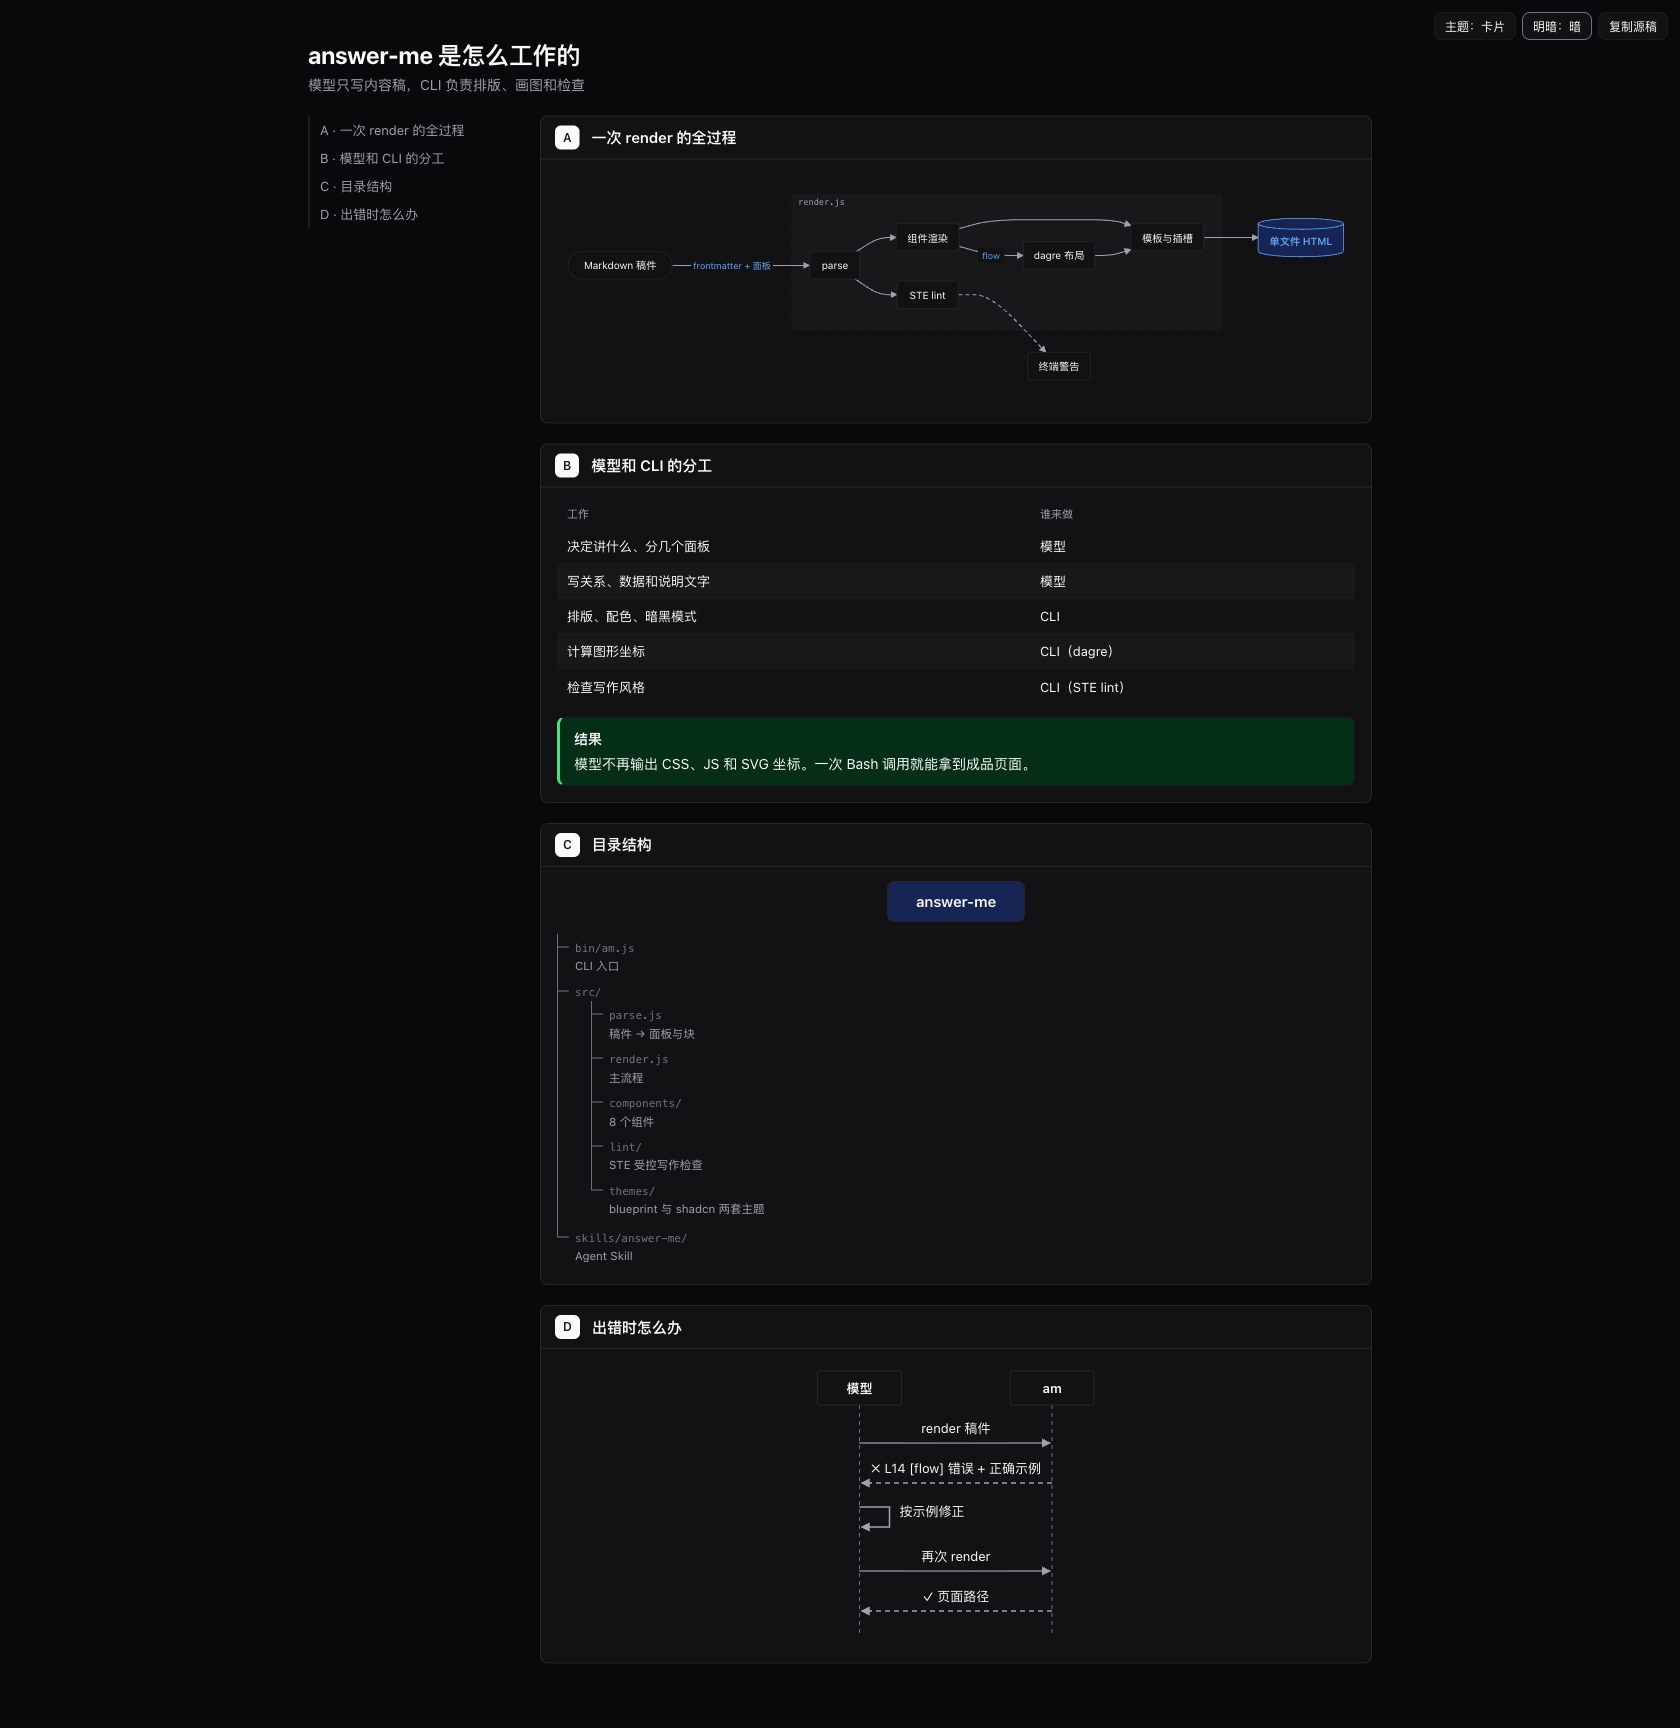
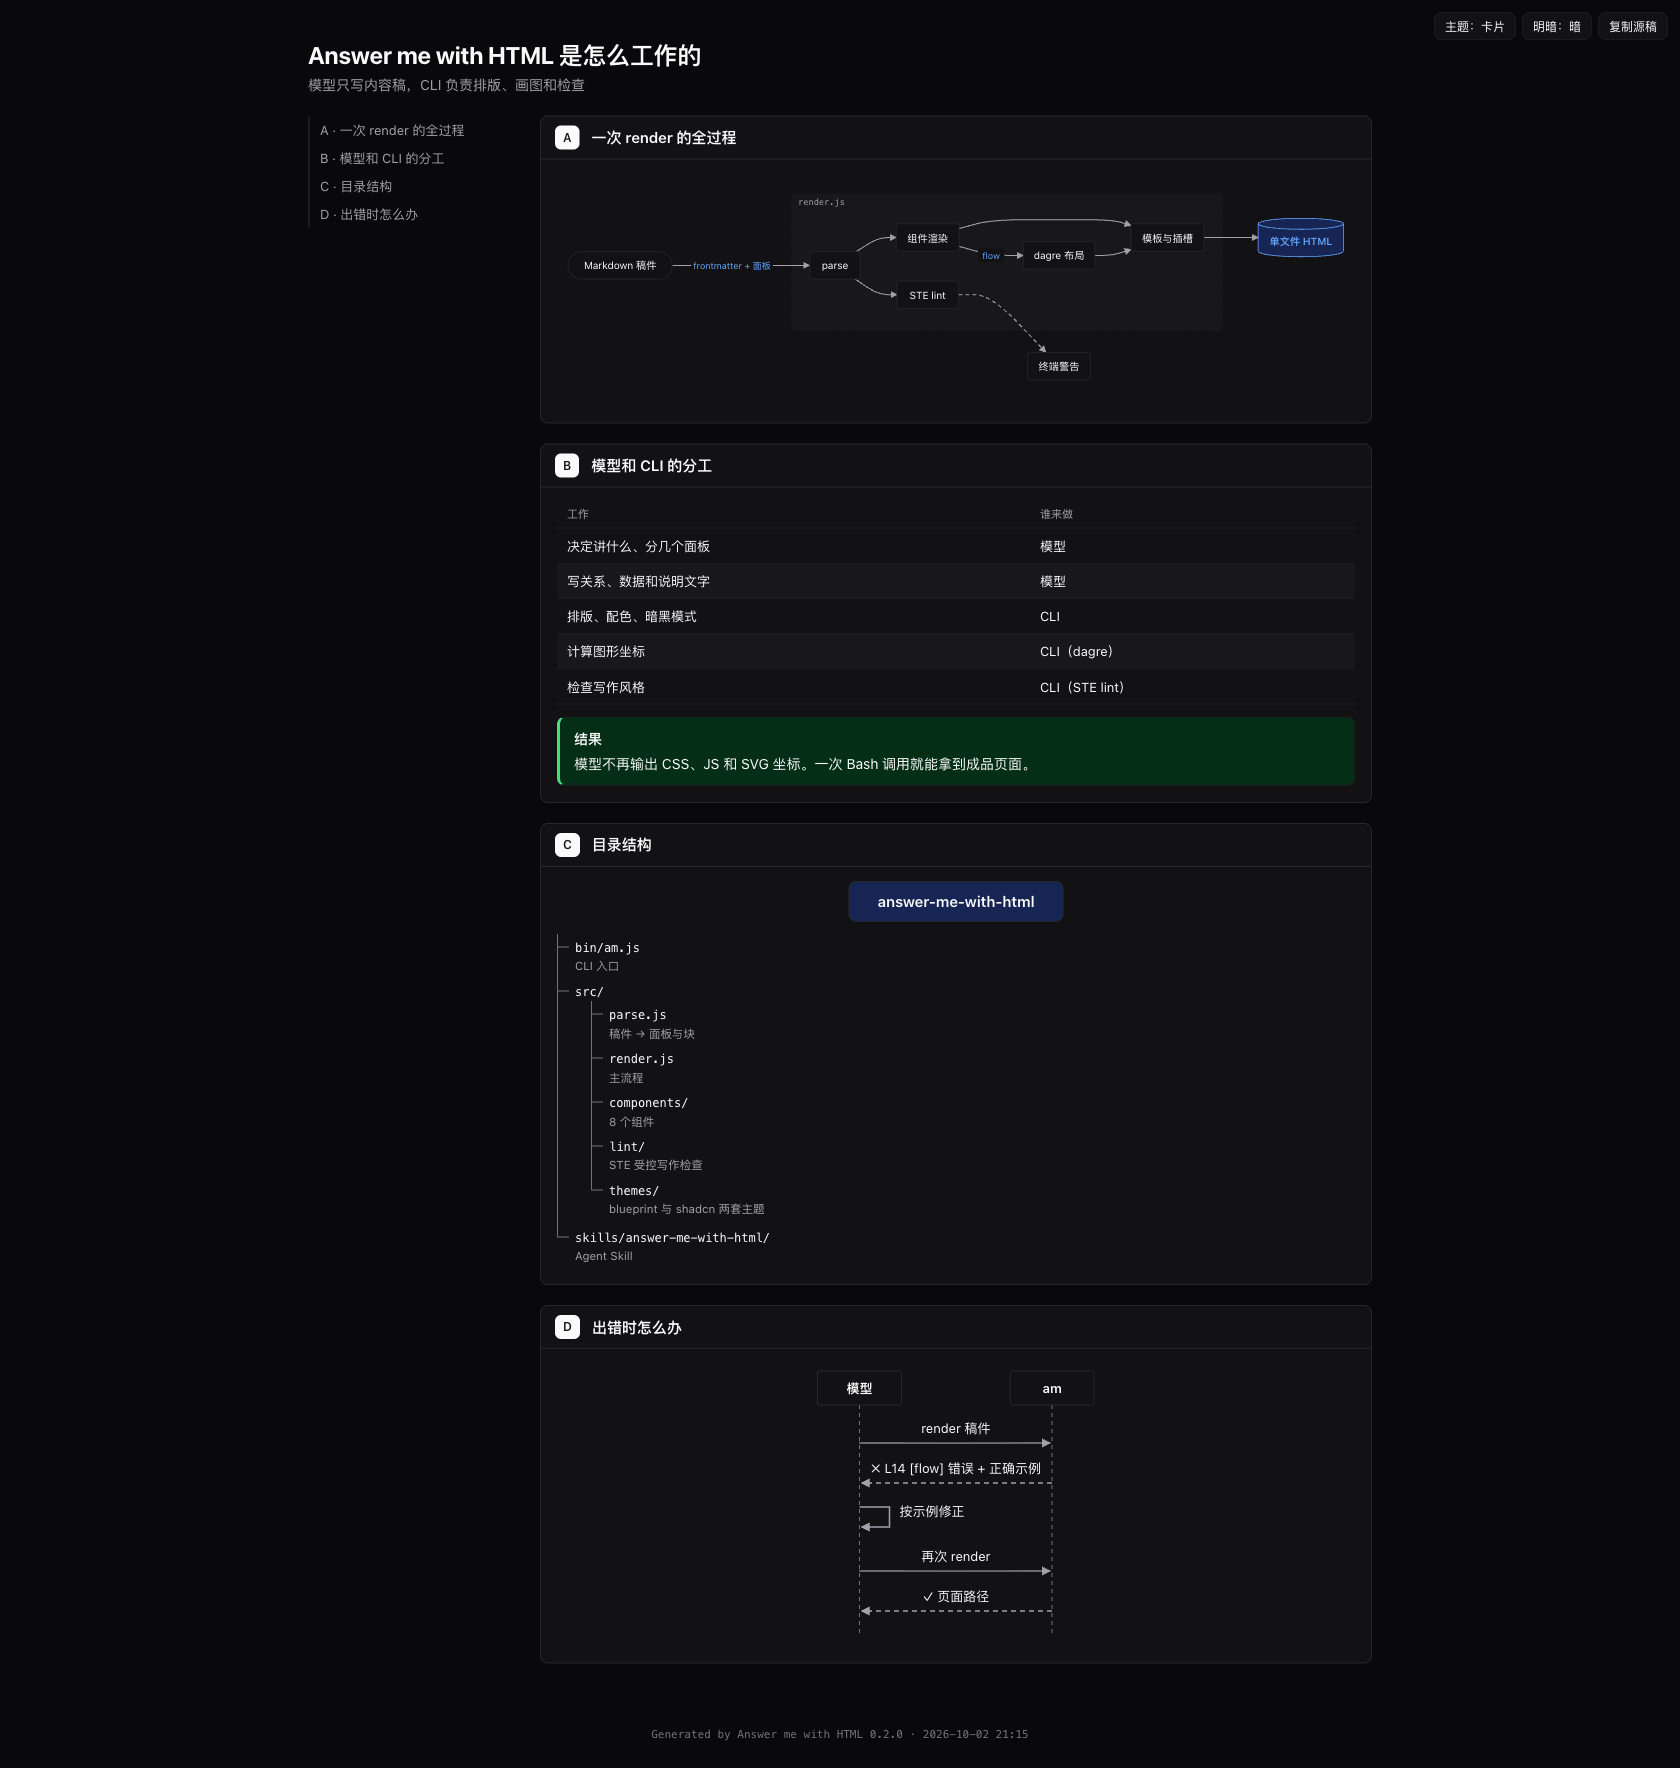
refactor: 项目改名为 Answer me with HTML（answer-me-with-html）
- skill / 插件 / marketplace / 仓库地址统一为 answer-me-with-html；高频模式插件为 answer-me-with-html-always
- 显示名（README、页脚、generator、logo）用 "Answer me with HTML"
- 命令保留 am，新增 answer-me-with-html 别名；ANSWER_ME_HOME 改为 AM_HOME，页面目录改为 ~/.answer-me-with-html
- README 触发示例改为"用 HTML 讲一下……"；更新 architecture 示例截图
- 版本升至 0.2.0

diff --git a/test/always-hook.test.js b/test/always-hook.test.js
@@ -8,30 +8,30 @@ const ROOT = fileURLToPath(new URL('..', import.meta.url));
 const read = (p) => JSON.parse(readFileSync(`${ROOT}/${p}`, 'utf8'));
 
 test('always 插件：hook 输出合法的 UserPromptSubmit additionalContext', () => {
-  const r = spawnSync(process.execPath, [`${ROOT}/plugins/answer-me-always/hooks/remind.mjs`], {
+  const r = spawnSync(process.execPath, [`${ROOT}/plugins/answer-me-with-html-always/hooks/remind.mjs`], {
     input: '{"prompt":"讲讲 TCP"}', encoding: 'utf8',
   });
   assert.equal(r.status, 0, r.stderr);
   const out = JSON.parse(r.stdout);
   assert.equal(out.hookSpecificOutput.hookEventName, 'UserPromptSubmit');
-  assert.match(out.hookSpecificOutput.additionalContext, /^\[answer-me always-on\]/);
+  assert.match(out.hookSpecificOutput.additionalContext, /^\[answer-me-with-html always-on\]/);
   assert.ok(out.hookSpecificOutput.additionalContext.length < 600, '提醒要短，每轮都会注入');
 });
 
 test('always 插件：hooks.json 指向存在的脚本，marketplace 已登记', () => {
-  const hooks = read('plugins/answer-me-always/hooks/hooks.json');
+  const hooks = read('plugins/answer-me-with-html-always/hooks/hooks.json');
   const cmd = hooks.hooks.UserPromptSubmit[0].hooks[0];
   assert.equal(cmd.command, 'node');
   assert.equal(cmd.args[0], '${CLAUDE_PLUGIN_ROOT}/hooks/remind.mjs');
   const names = read('.claude-plugin/marketplace.json').plugins.map((p) => p.name);
-  assert.deepEqual(names, ['answer-me', 'answer-me-always']);
+  assert.deepEqual(names, ['answer-me-with-html', 'answer-me-with-html-always']);
 });
 
 test('SKILL.md 说明了高频模式的提醒标记', () => {
-  assert.match(readFileSync(`${ROOT}/skills/answer-me/SKILL.md`, 'utf8'), /\[answer-me always-on\]/);
+  assert.match(readFileSync(`${ROOT}/skills/answer-me-with-html/SKILL.md`, 'utf8'), /\[answer-me-with-html always-on\]/);
 });
 
 test('always 插件：提醒要求 --no-open，不弹浏览器', () => {
-  const r = spawnSync(process.execPath, [`${ROOT}/plugins/answer-me-always/hooks/remind.mjs`], { encoding: 'utf8' });
+  const r = spawnSync(process.execPath, [`${ROOT}/plugins/answer-me-with-html-always/hooks/remind.mjs`], { encoding: 'utf8' });
   assert.match(JSON.parse(r.stdout).hookSpecificOutput.additionalContext, /--no-open/);
 });

diff --git a/src/cli.js b/src/cli.js
@@ -14,7 +14,7 @@ import { THEMES } from './themes/index.js';
 
 const MAX_LISTED_WARNINGS = 20;
 
-const USAGE = `answer-me ${VERSION} — 把 Markdown 内容稿渲染成单文件 HTML 解释页
+const USAGE = `Answer me with HTML ${VERSION} — 把 Markdown 内容稿渲染成单文件 HTML 解释页
 
 用法:
   am render <file|->  [-o 输出路径] [--no-open] [--theme blueprint|shadcn]
@@ -24,7 +24,7 @@ const USAGE = `answer-me ${VERSION} — 把 Markdown 内容稿渲染成单文件
   am help [组件名|format]                          查看组件语法 / 稿件格式
 
 - 文件参数写 - 表示从 stdin 读取（适合 heredoc：am render - <<'EOF' ... EOF）。
-- 默认输出到 ~/.answer-me/pages/（可用环境变量 ANSWER_ME_HOME 修改），并自动打开浏览器。`;
+- 默认输出到 ~/.answer-me-with-html/pages/（可用环境变量 AM_HOME 修改），并自动打开浏览器。`;
 
 const FORMAT = `稿件格式（扩展 Markdown）
 
@@ -132,7 +132,7 @@ function cmdRender(src, opts, { print, fail, env, cwd }) {
   }
   const file = opts.out
     ? resolve(cwd ?? process.cwd(), opts.out)
-    : join(env.ANSWER_ME_HOME || join(homedir(), '.answer-me'), 'pages', `${slug(result.meta.title)}-${stamp()}.html`);
+    : join(env.AM_HOME || join(homedir(), '.answer-me-with-html'), 'pages', `${slug(result.meta.title)}-${stamp()}.html`);
   mkdirSync(dirname(file), { recursive: true });
   writeFileSync(file, result.html);
 

diff --git a/src/render.js b/src/render.js
@@ -110,8 +110,8 @@ function shell({ meta, lang, body, source }) {
 <head>
 <meta charset="utf-8">
 <meta name="viewport" content="width=device-width, initial-scale=1">
-<meta name="generator" content="answer-me ${VERSION}">
-<title>${esc(meta.title || 'answer-me')}</title>
+<meta name="generator" content="Answer me with HTML ${VERSION}">
+<title>${esc(meta.title || 'Answer me with HTML')}</title>
 <style>
 ${pageCss()}
 </style>
@@ -123,7 +123,7 @@ ${pageCss()}
 <button class="am-btn" type="button" data-am="copy" data-done="${esc(ui.done)}">${esc(ui.copy)}</button>
 </div>
 ${body}
-<footer class="am-colophon">Generated by answer-me ${VERSION} · ${esc(timestamp())}</footer>
+<footer class="am-colophon">Generated by Answer me with HTML ${VERSION} · ${esc(timestamp())}</footer>
 <textarea id="am-source" hidden readonly aria-hidden="true">${esc(source)}</textarea>
 <script>
 ${RUNTIME_JS}</script>

diff --git a/test/cli.test.js b/test/cli.test.js
@@ -21,7 +21,7 @@ async function run(args, { stdin = '', env = {} } = {}) {
   const err = sink();
   const code = await main(args, {
     stdout: out.stream, stderr: err.stream, stdin: Readable.from([stdin]),
-    env: { AM_NO_OPEN: '1', ANSWER_ME_HOME: dir, ...env }, cwd: dir,
+    env: { AM_NO_OPEN: '1', AM_HOME: dir, ...env }, cwd: dir,
   });
   return { code, out: out.text, err: err.text };
 }
@@ -33,7 +33,7 @@ test('cli: --version 与 --help', async () => {
   assert.match((await run([])).out, /用法/);
 });
 
-test('cli render: 从 stdin 读取，写入 ANSWER_ME_HOME/pages，打印路径与统计', async () => {
+test('cli render: 从 stdin 读取，写入 AM_HOME/pages，打印路径与统计', async () => {
   const r = await run(['render', '-'], { stdin: GOOD });
   assert.equal(r.code, 0, r.err);
   const file = r.out.match(/✓ (.+\.html)/)[1];

diff --git a/test/bundle.test.js b/test/bundle.test.js
@@ -13,8 +13,8 @@ const PKG = JSON.parse(readFileSync(join(ROOT, 'package.json'), 'utf8'));
 test('bundle: skill 目录单独复制出去后仍能渲染', () => {
   const dir = mkdtempSync(join(tmpdir(), 'am-bundle-'));
   try {
-    cpSync(join(ROOT, 'skills/answer-me'), join(dir, 'answer-me'), { recursive: true });
-    const cli = join(dir, 'answer-me/scripts/am.mjs');
+    cpSync(join(ROOT, 'skills/answer-me-with-html'), join(dir, 'answer-me-with-html'), { recursive: true });
+    const cli = join(dir, 'answer-me-with-html/scripts/am.mjs');
     const env = { ...process.env, AM_NO_OPEN: '1' };
 
     const version = spawnSync(process.execPath, [cli, '--version'], { encoding: 'utf8', env });

diff --git a/test/render.test.js b/test/render.test.js
@@ -78,7 +78,7 @@ test('render: 源稿转义后内嵌在隐藏 textarea 中，可原样取回', ()
 });
 
 test('render: 页脚 colophon 含版本与生成时间', () => {
-  assert.match(renderDoc('## A\nx').html, /<footer class="am-colophon">Generated by answer-me \d+\.\d+\.\d+ · \d{4}-\d{2}-\d{2} \d{2}:\d{2}<\/footer>/);
+  assert.match(renderDoc('## A\nx').html, /<footer class="am-colophon">Generated by Answer me with HTML \d+\.\d+\.\d+ · \d{4}-\d{2}-\d{2} \d{2}:\d{2}<\/footer>/);
 });
 
 test('render: CLI 覆盖项生效并校验', () => {

diff --git a/src/assets.js b/src/assets.js
@@ -1,5 +1,5 @@
 // 运行时需要的静态资源集中在这里。开发时从磁盘读取；打包（scripts/build.mjs）时整个模块被替换成内联字符串，
-// 因此产物 skills/answer-me/scripts/am.mjs 不依赖任何外部文件。
+// 因此产物 skills/answer-me-with-html/scripts/am.mjs 不依赖任何外部文件。
 import { readFileSync } from 'node:fs';
 
 const read = (path) => readFileSync(new URL(path, import.meta.url), 'utf8');

diff --git a/src/themes/base.css b/src/themes/base.css
@@ -1,4 +1,4 @@
-/* answer-me base — 只引用主题变量，禁止写死颜色（主题 token 见 themes/index.js） */
+/* Answer me with HTML base — 只引用主题变量，禁止写死颜色（主题 token 见 themes/index.js） */
 *, *::before, *::after { box-sizing: border-box; }
 html, body { margin: 0; padding: 0; }
 body {

diff --git a/examples/architecture.md b/examples/architecture.md
@@ -1,7 +1,7 @@
 ---
 template: doc
 theme: shadcn
-title: answer-me 是怎么工作的
+title: Answer me with HTML 是怎么工作的
 subtitle: 模型只写内容稿，CLI 负责排版、画图和检查
 ---
 
@@ -31,7 +31,7 @@ group render.js: parse, STE lint, 组件渲染, dagre 布局, 模板与插槽
 
 ## C 目录结构
 ```tree list
-answer-me
+answer-me-with-html
   `bin/am.js` | CLI 入口
   `src/`
     `parse.js` | 稿件 → 面板与块
@@ -39,7 +39,7 @@ answer-me
     `components/` | 8 个组件
     `lint/` | STE 受控写作检查
     `themes/` | blueprint 与 shadcn 两套主题
-  `skills/answer-me/` | Agent Skill
+  `skills/answer-me-with-html/` | Agent Skill
 ```
 
 ## D 出错时怎么办
